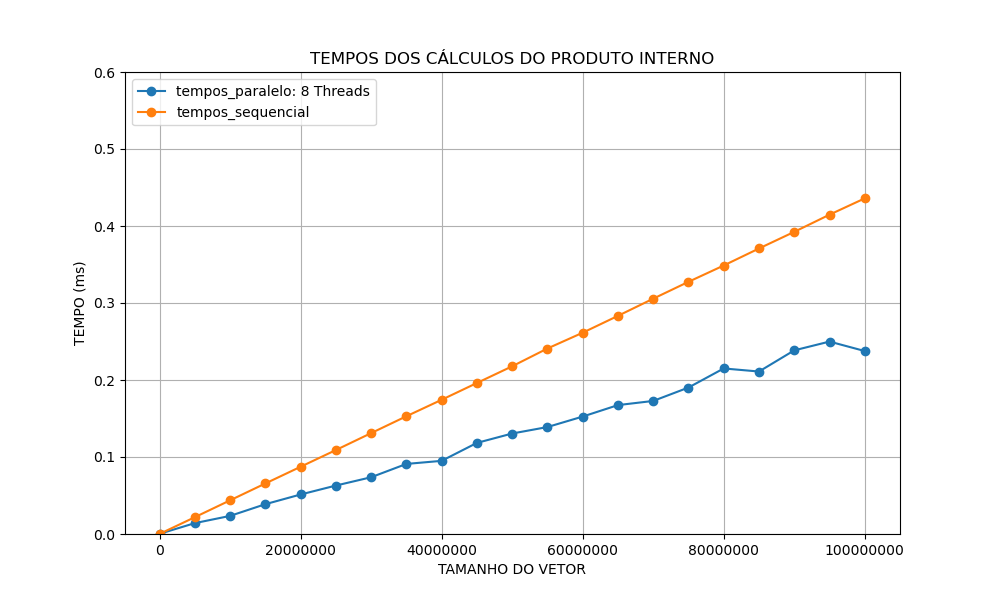
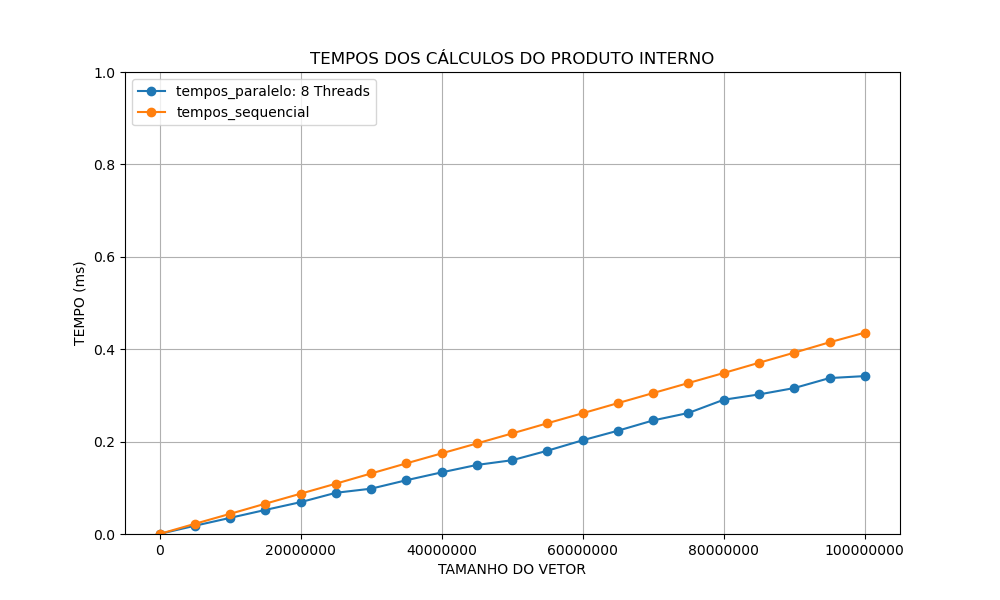
Versao final com graficos corretos

diff --git a/tp2/produto_escalar/produto_escalar_paralelo.c b/tp2/produto_escalar/produto_escalar_paralelo.c
@@ -149,8 +149,13 @@ int main(int argc, char* argv[]) {
 
 
      // --- Entrada do usuário (TAMANHOS DE VETORES) ---
-    printf("Digite a quantidade de tamanhos diferentes de vetor para comparação(ex: 2 resultará testes para: [100, 200]): ");
-    scanf("%d", &QTD_TAMANHO_VET);
+    QTD_TAMANHO_VET = 21;
+
+    if(QTD_TAMANHO_VET>30){
+        printf("Quantidade acima do esperado.\n");
+        return 0;
+    }
+
 
 
     

diff --git a/tp2/produto_escalar/produto_escalar_sequencial.c b/tp2/produto_escalar/produto_escalar_sequencial.c
@@ -69,8 +69,8 @@ int main() {
 
 
     // --- Entrada do usuário ---
-    printf("Digite a quantidade de tamanhos diferentes de vetor para comparação(ex: 2 resultará testes para: [100, 200]): ");
-    scanf("%d", &QTD_TAMANHO_VET);
+    QTD_TAMANHO_VET = 21;
+    
     if(QTD_TAMANHO_VET>30){
         printf("Quantidade acima do esperado.\n");
         return 0;

diff --git a/tp2/produto_escalar/graficos.py b/tp2/produto_escalar/graficos.py
@@ -36,7 +36,7 @@ for qtd_thread in qtd_threads.unique():
     plt.legend(loc='upper left') 
     plt.xlabel("TAMANHO DO VETOR")
     plt.ylabel("TEMPO (ms)")
-    plt.ylim(0, 0.6)
+    plt.ylim(0, 1)
     plt.title("TEMPOS DOS CÁLCULOS DO PRODUTO INTERNO")
     plt.grid(True)
 
